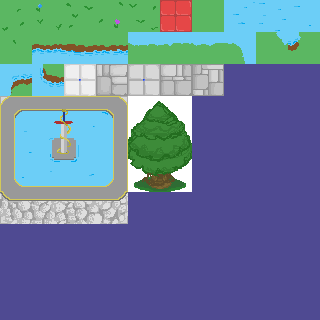
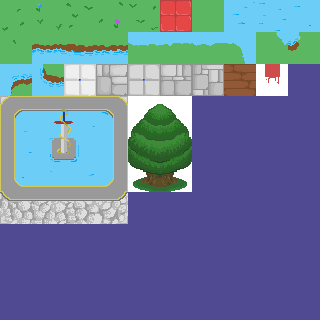
modifica mappa main

Changed region(s): [[0.4062, 0.3125, 0.5938, 0.5938], [0.6875, 0.1875, 0.9062, 0.3125], [0.4062, 0.5625, 0.4375, 0.5938]]

diff --git a/Tiles/erba.tsx b/Tiles/erba.tsx
@@ -1,0 +1,4 @@
+<?xml version="1.0" encoding="UTF-8"?>
+<tileset version="1.4" tiledversion="1.4.3" name="erba" tilewidth="32" tileheight="32" tilecount="100" columns="10">
+ <image source="../OpenWorld/IMAGESOW/grass.png" width="320" height="320"/>
+</tileset>

diff --git a/main.py b/main.py
@@ -13,8 +13,8 @@ FPS=60
 spostamento_x=0
 spostamento_y=0
 var_spost = 3
-x_blocco=500
-y_blocco=500
+x_blocco=288
+y_blocco=288
 
 def blit_button(pos_x, pos_y, dim_x, dim_y, color, image_def):
     button=pygame.Rect(pos_x, pos_y, dim_x, dim_y)
@@ -85,7 +85,7 @@ while True:
                     
     
     
-    a=blit_button(500, 500, 24, 24, RED, "wood.jpg")
+    a=blit_button(288, 288, 24, 24, RED, "wood.jpg")
     #print ('tick={}, fps={}'.format(clock.tick(FPS), clock.get_fps()))
 
     pygame.display.update()
